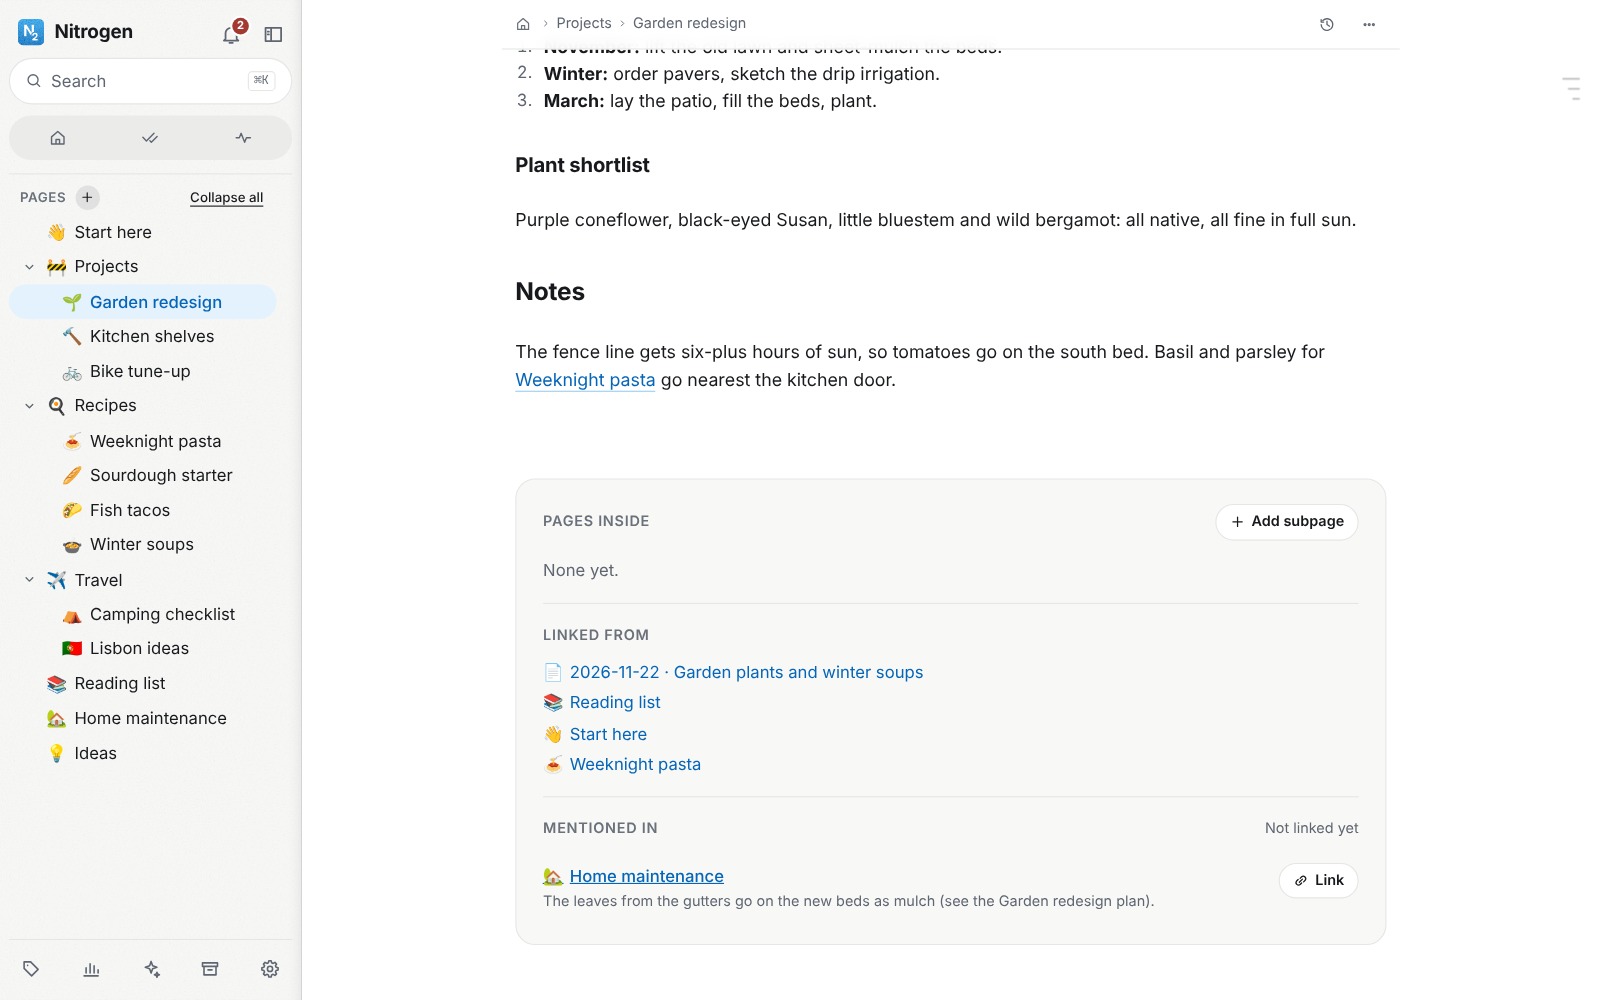
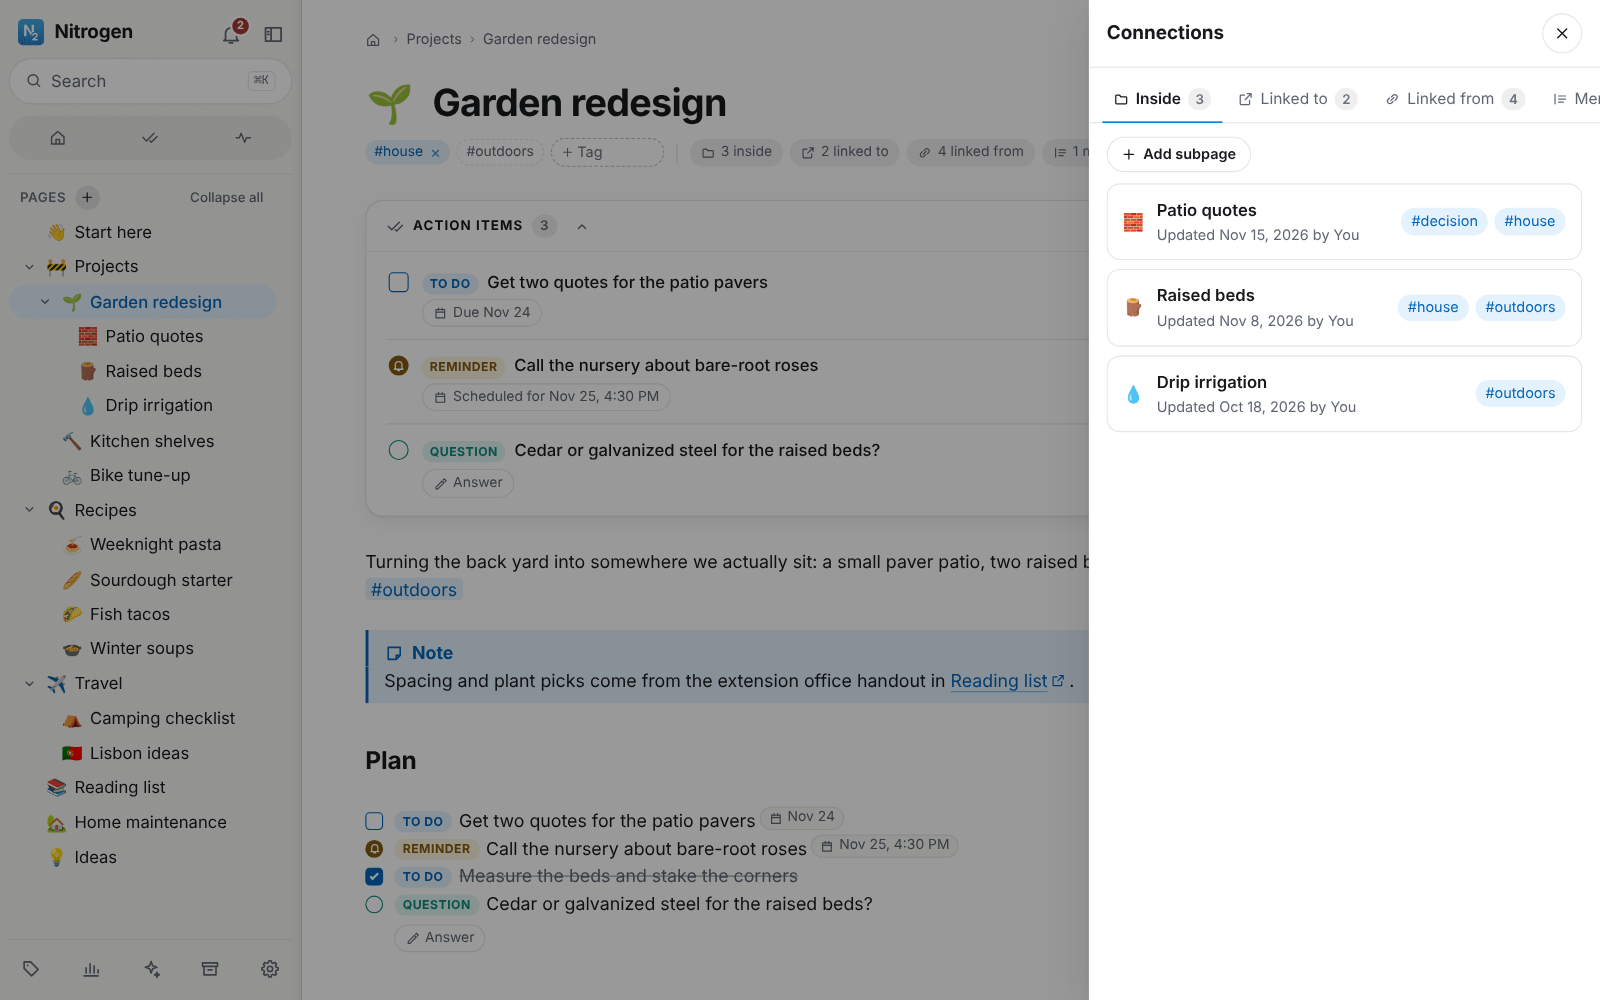
Nitrogen 1.1.1: screenshots of the connections panel and new page layout
Re-rendered the README screenshots for 1.1.0's page layout: tags and connection
chips under the title, the Connections panel, wider pages. The demo wiki now has
subpages under Garden redesign. connections.png shows the panel open on Inside;
its alt text and README sentence describe the chips and panel.

Claude-Session: https://claude.ai/code/session_01PCXyg1odGgu7ewnwgy9TLQ

diff --git a/src/shared/version.ts b/src/shared/version.ts
@@ -1,2 +1,2 @@
 /** The app version, reported by the MCP server. Kept equal to package.json (checked by a test). */
-export const VERSION = '1.1.0';
+export const VERSION = '1.1.1';

diff --git a/README.md b/README.md
@@ -8,7 +8,7 @@ It's for people who keep a lot in their heads, talk it through with AI, and want
 
 [![Deploy to Cloudflare](docs/deploy-to-cloudflare.svg)](https://deploy.workers.cloudflare.com/?url=https://github.com/tyler-class/Nitrogen)
 
-![Nitrogen on a laptop and a phone: a page with its tree, tags and Action Items, and Home’s Action Items](docs/screenshots/hero.png)
+![Nitrogen on a laptop and a phone: a page with its tree, its tags and connections under the title, and its Action Items; Home’s Action Items on the phone](docs/screenshots/hero.png)
 
 - **A page tree.** Every page can hold subpages. Drag pages in the sidebar to reorder or nest them.
 - **Markdown with wiki links.** `[[Page title]]` links pages and powers “Linked from” backlinks.
@@ -57,9 +57,9 @@ It's for people who keep a lot in their heads, talk it through with AI, and want
 
 ![The History panel comparing an October version with the current one, changes marked in red and green](docs/screenshots/history.png)
 
-**Connections:** pages inside this one, pages that link here, and pages that mention it without a link yet.
+**Connections:** chips under the title count the pages inside this one, the pages it links to, the pages that link here, the pages that mention it without a link yet and similar pages. Each opens the Connections panel on its tab.
 
-![The bottom of a page with Pages inside, Linked from and Mentioned in, with a Link button](docs/screenshots/connections.png)
+![A page with its tags and connection chips under the title, and the Connections panel open on Inside: three subpages with their tags and an Add subpage button](docs/screenshots/connections.png)
 
 **The page menu (⋯):** add a subpage, pin a page to Home, copy a link to it, download it as Markdown, or archive it.
 
